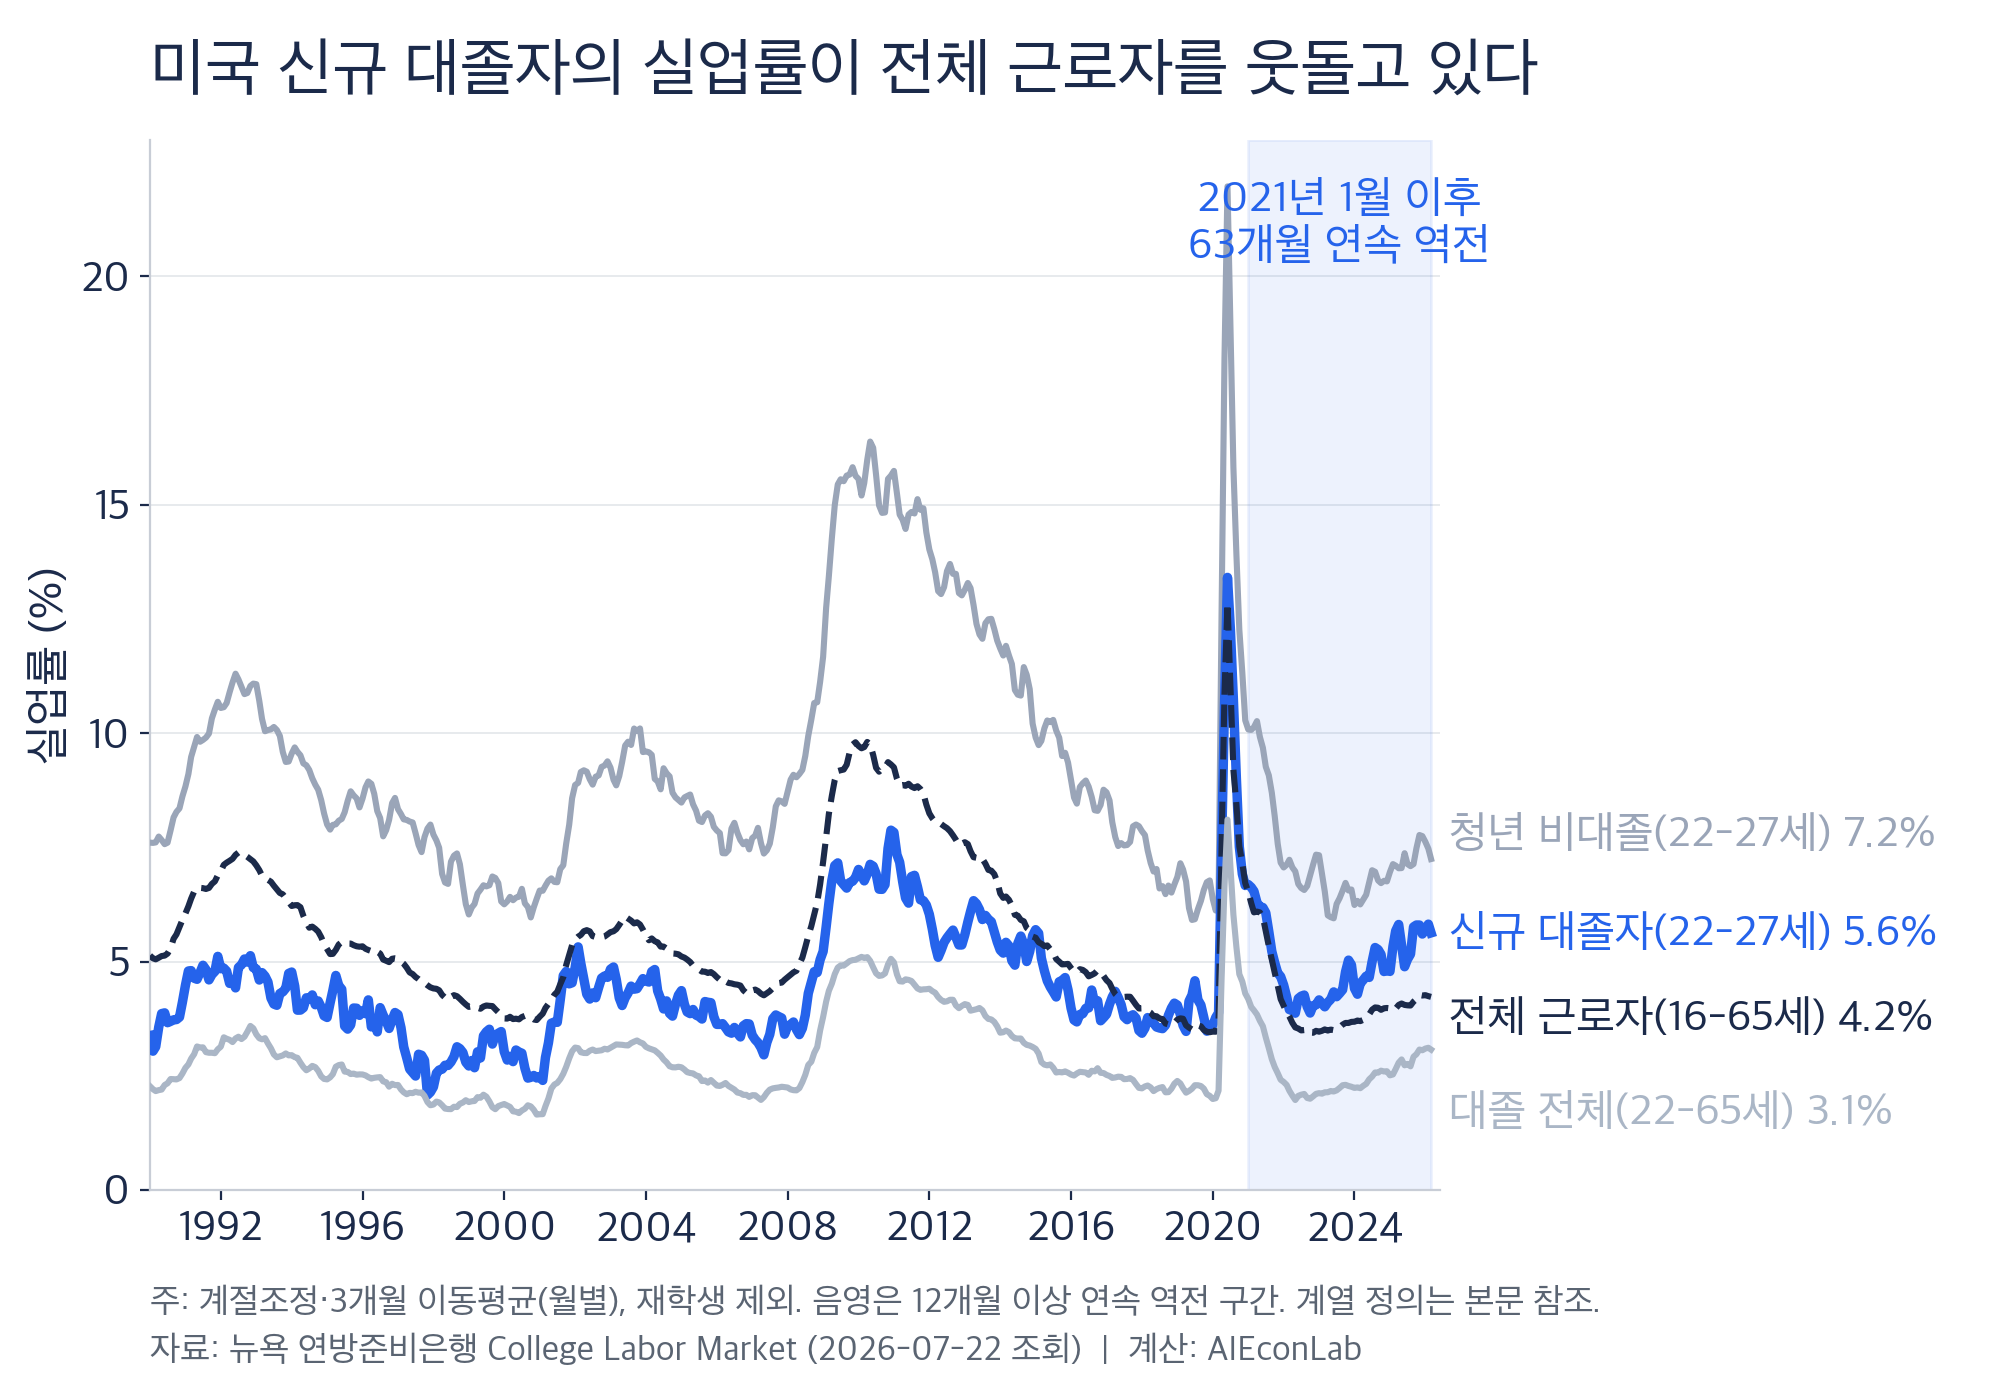
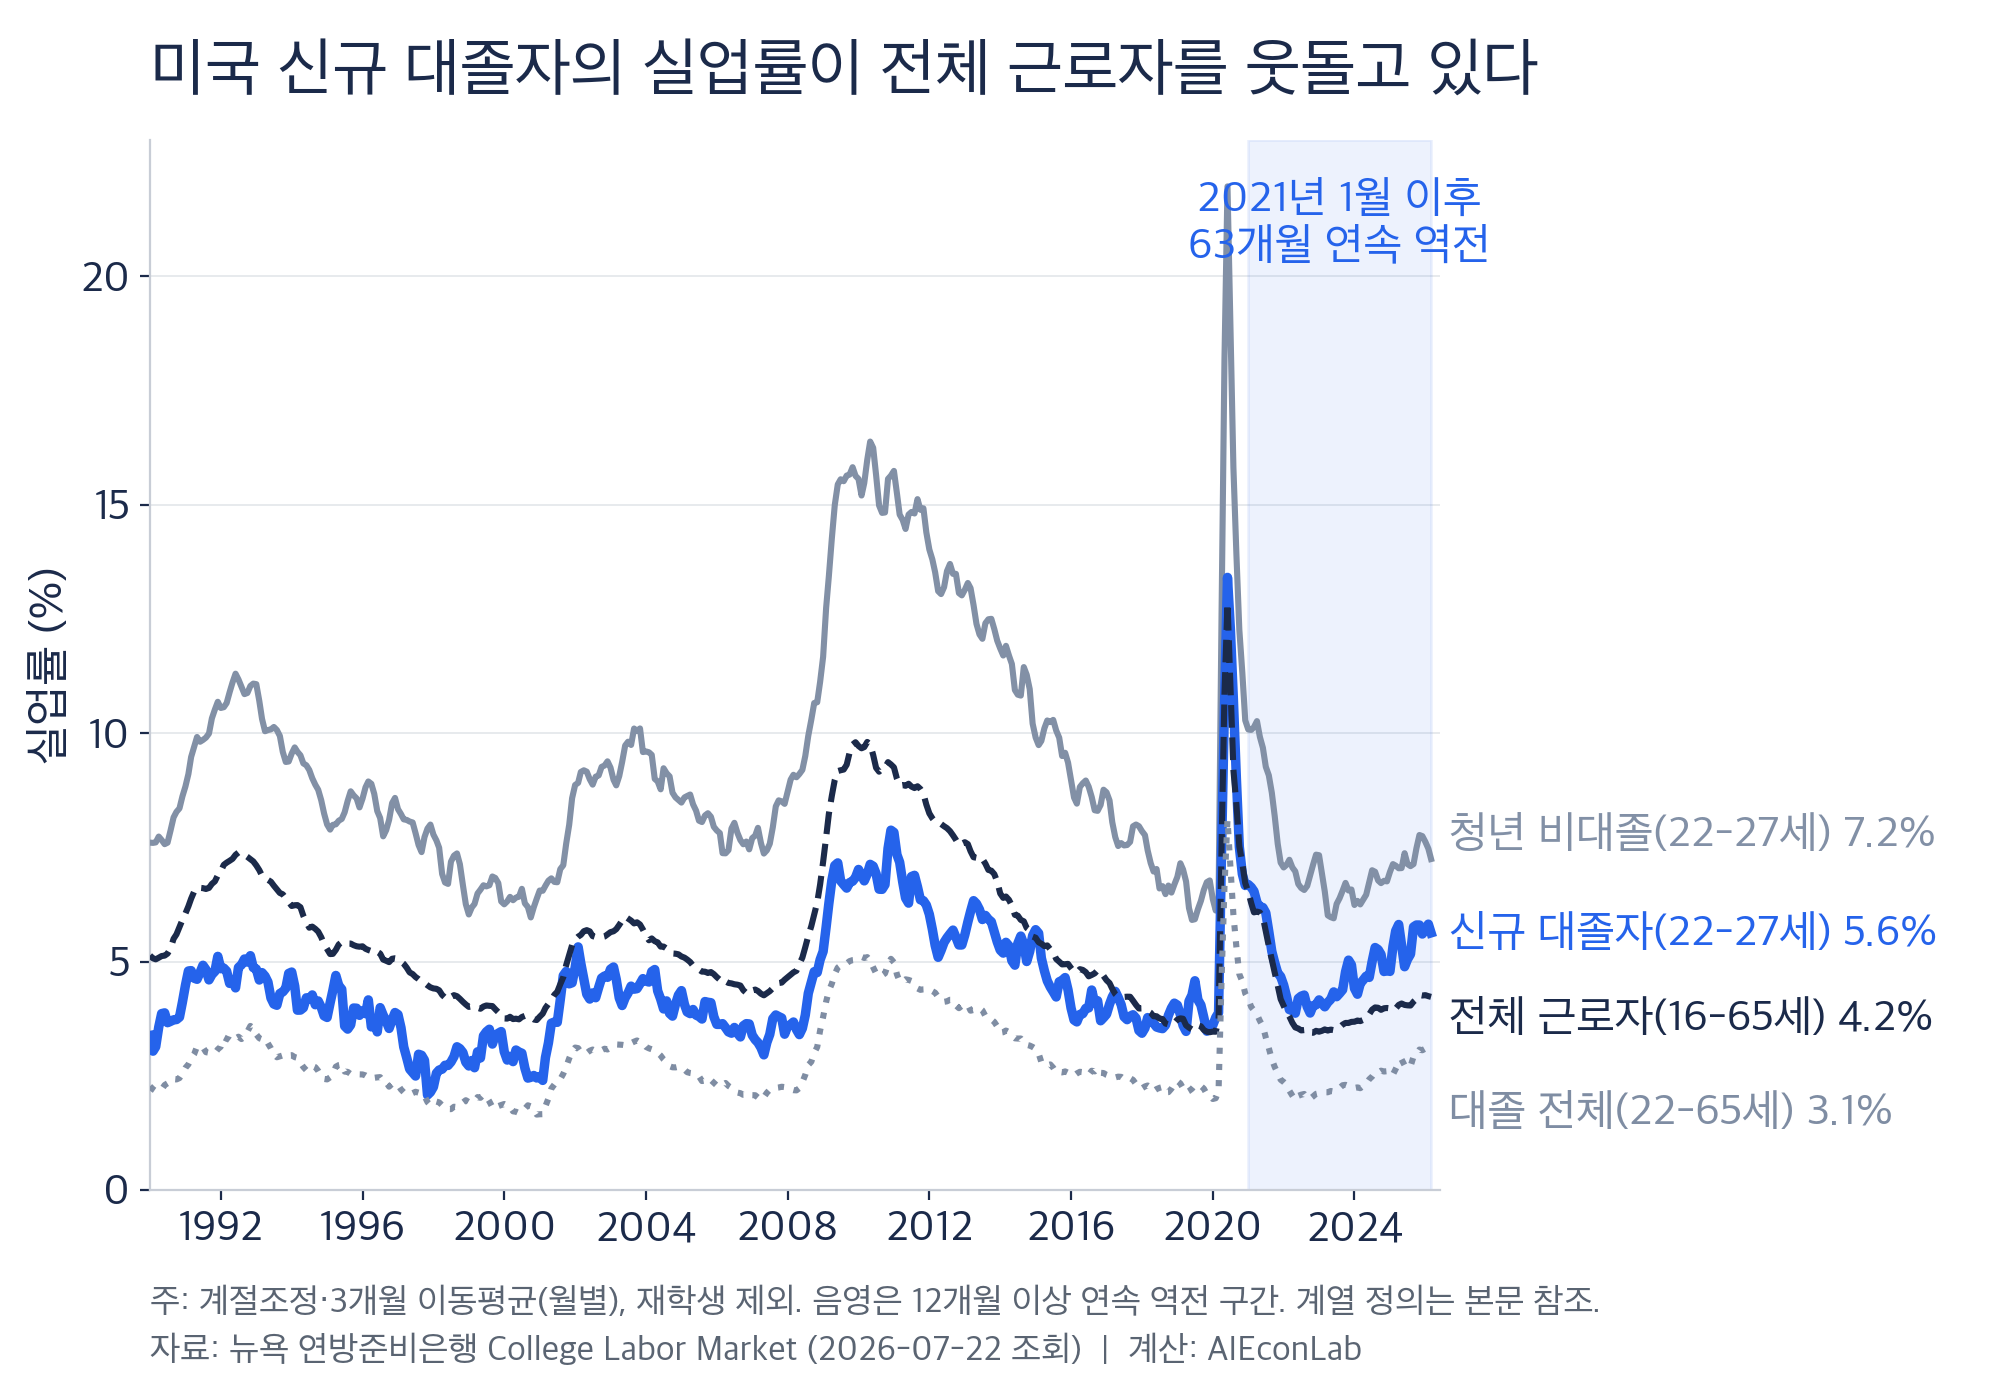
fix(draft): 시니어화 초안 5차 리뷰 반영 — 정의 문구 통일·대비 3:1 보강
- 수치의 기준 '2019년 이후 새로 등장한' → 'PwC가 신규로 분류한 새롭게 부상한'
  (2019년 5회 이하 정의와의 충돌 해소, 본문 표현과 통일)
- README 버전 고정 서술 정정: 락은 직접 의존성 3개만 고정, Python 버전은
  미고정(3.13.9·3.14.5 바이트 동일 재현 확인 병기)
- '가장 강한 증거' → '가장 직접적인 증거 중 하나'로 완화
- 회색 계열 대비 3:1 이상으로 보강(#8290a6 3.24:1, #7f8da3 3.36:1) 후
  그림 3장 재생성, 그림 1 대졸 전체 선은 점선으로 구분성 확보

diff --git a/docs/03-analysis/entry-seniorization/scripts/fig01_us_recent_grads.py b/docs/03-analysis/entry-seniorization/scripts/fig01_us_recent_grads.py
@@ -32,7 +32,7 @@ URL = ("https://www.newyorkfed.org/medialibrary/research/interactives/"
        "data/college-labor-market/college-labor-unemployment-data.csv")
[1 lines of base64/hex data omitted]
 
-BLUE, MID, LIGHT, NAVY, NOTE, SPINE = ("#2563eb", "#9aa5b8", "#aab6c6",
+BLUE, MID, LIGHT, NAVY, NOTE, SPINE = ("#2563eb", "#8290a6", "#7f8da3",
                                        "#1b2a4a", "#5a6472", "#c8cdd6")
 
 
@@ -102,9 +102,10 @@ def main():
               ("Recent graduates", BLUE, 3.4, "신규 대졸자(22-27세)"),
               ("All workers", NAVY, 2.2, "전체 근로자(16-65세)"),
               ("College graduates", LIGHT, 2.2, "대졸 전체(22-65세)")]
+    styles = {"All workers": "--", "College graduates": ":"}
     for col, c, lw, _ in series:
         ax.plot(df.Date, df[col], color=c, linewidth=lw,
-                linestyle="--" if col == "All workers" else "-", zorder=3)
+                linestyle=styles.get(col, "-"), zorder=3)
     if cur:
         ax.axvspan(cur["start"], cur["end"], color=BLUE, alpha=0.08, zorder=1)
         ax.annotate(f"{cur['start'].year}년 {cur['start'].month}월 이후\n{cur['n']}개월 연속 역전",

diff --git a/docs/03-analysis/entry-seniorization/scripts/fig02_bok_pension.py b/docs/03-analysis/entry-seniorization/scripts/fig02_bok_pension.py
@@ -25,7 +25,7 @@ matplotlib.use("Agg")
 import matplotlib.pyplot as plt
 
 HERE = Path(__file__).resolve().parent
-BLUE, GRAY, NAVY, NOTE, SPINE = "#2563eb", "#9aa5b8", "#1b2a4a", "#5a6472", "#c8cdd6"
+BLUE, GRAY, NAVY, NOTE, SPINE = "#2563eb", "#8290a6", "#1b2a4a", "#5a6472", "#c8cdd6"
 
 AGES = ["청년층\n(15~29세)", "30대", "40대", "50대"]
 HIGH = [-20.8, 7.6, -6.1, 14.6]   # AI 고노출(상위 3~4분위) 업종

diff --git a/docs/03-analysis/entry-seniorization/scripts/fig03_sim.py b/docs/03-analysis/entry-seniorization/scripts/fig03_sim.py
@@ -23,7 +23,7 @@ matplotlib.use("Agg")
 import matplotlib.pyplot as plt
 
 HERE = Path(__file__).resolve().parent
-BLUE, MID, LIGHT, NAVY, NOTE, SPINE = ("#2563eb", "#8290a6", "#aab6c6",
+BLUE, MID, LIGHT, NAVY, NOTE, SPINE = ("#2563eb", "#8290a6", "#7f8da3",
                                        "#1b2a4a", "#5a6472", "#c8cdd6")
 
 SHOCK_YEARS = {2026, 2027, 2028}

diff --git a/docs/03-analysis/entry-seniorization/README.md b/docs/03-analysis/entry-seniorization/README.md
@@ -51,8 +51,10 @@ python3 -m venv .venv
   --out ../../../assets/images/post/entry_seniorization_cover.png
 ```
 
-- **버전 고정**: `requirements.lock`이 커밋 그림을 생성한 검증 환경
-  (Python 3.13.9, pandas 2.3.3, numpy 2.3.5, matplotlib 3.10.6)을 잠근다.
+- **버전 고정**: `requirements.lock`은 직접 의존성 3개(pandas 2.3.3, numpy 2.3.5,
+  matplotlib 3.10.6)를 고정한다. Python 버전 자체는 잠그지 않는다 — 커밋 그림은
+  Python 3.13.9에서 생성했고, 검증 시점 기준 3.13.9와 3.14.5 모두에서 그림 4장과
+  JSON이 바이트 단위로 동일하게 재생성됨이 확인됐다.
   `requirements.txt`(하한만 지정)로 설치하면 렌더링이 커밋본과 미세하게 달라질 수 있다.
 - **조회일 고정**: `fig01`·`fig02`의 푸터 조회일은 기본값이 실행일이므로,
   커밋본과 동일한 PNG를 원하면 `--access-date 2026-07-22`를 지정한다.